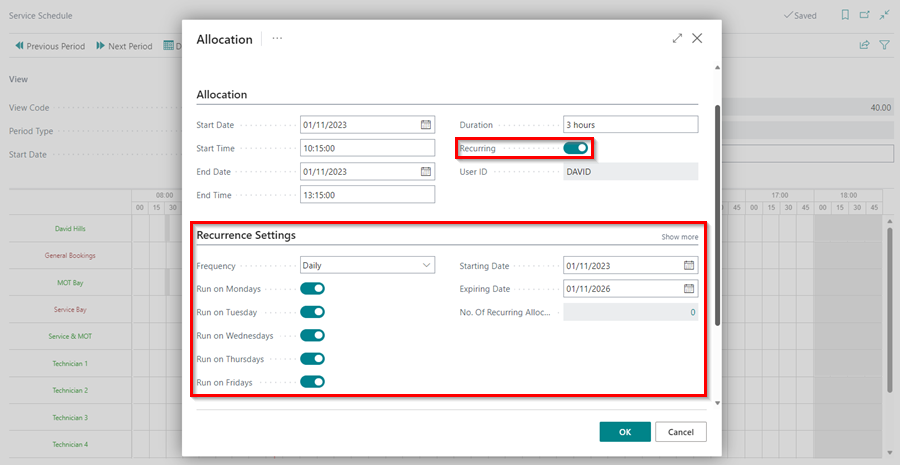
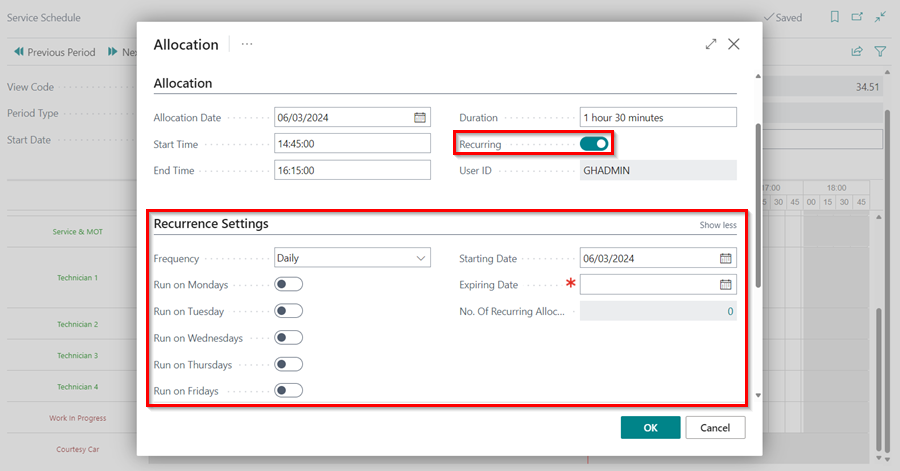
recurring events update

diff --git a/docs/garagehive-recurring-events.md b/docs/garagehive-recurring-events.md
@@ -21,11 +21,11 @@ In Garage Hive, recurring events are used for scheduling allocations that will h
 
    ![](media/garagehive-recurring-events3.png)
 
-5. In the **Recurrence Settings** FastTab, you can now set the **Frequency** of the allocation, the **Starting Date** and **Ending Date**, as well as the days on which the recurring allocation should run. Click **OK** when finished.
+5. In the **Recurrence Settings** FastTab, set the **Frequency** of the allocation, enter the **Expiring Date**, and select the days on which the recurring allocation should run (when the frequency is set to **Daily**). Click **OK** when finished.
 
    ![](media/garagehive-recurring-events4.png)
 
-6. You will receive the following notification if the recurring allocation is assigned on a date that you have specified it shouldn't run. To view the dates that aren't assigned, click **Yes**.
+6. If the recurring allocation runs on an unavailable day, such as Sunday, you will receive the following notification. To view the dates that aren't assigned, click **Yes**.
 
    ![](media/garagehive-recurring-events5.png)
 
